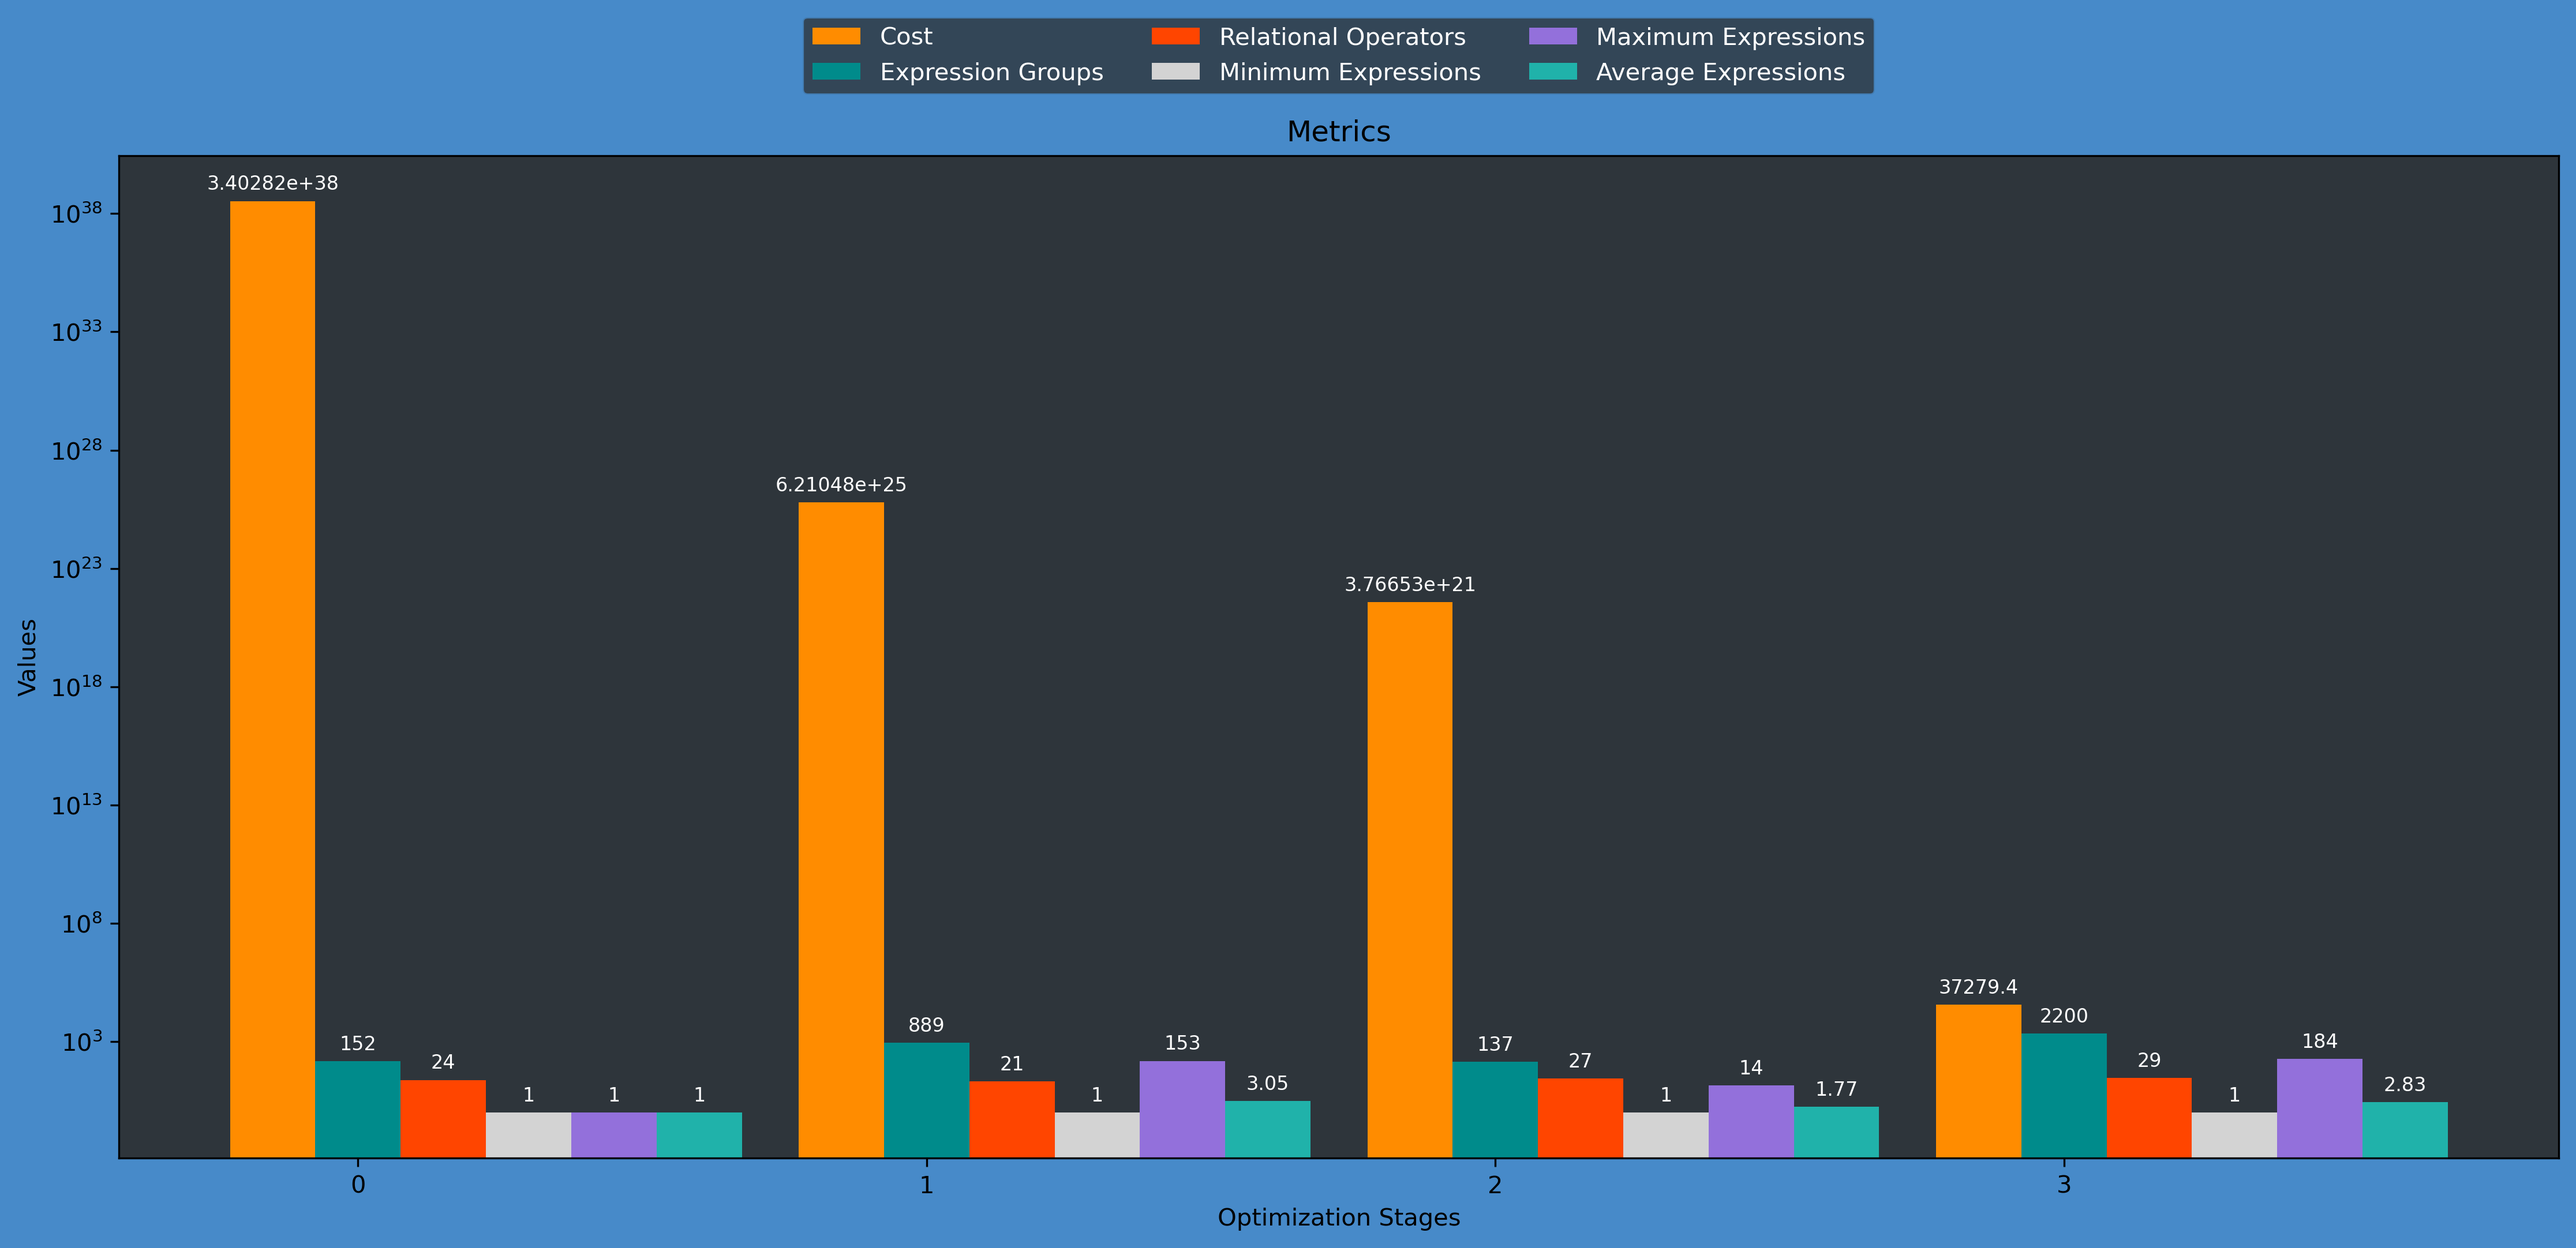
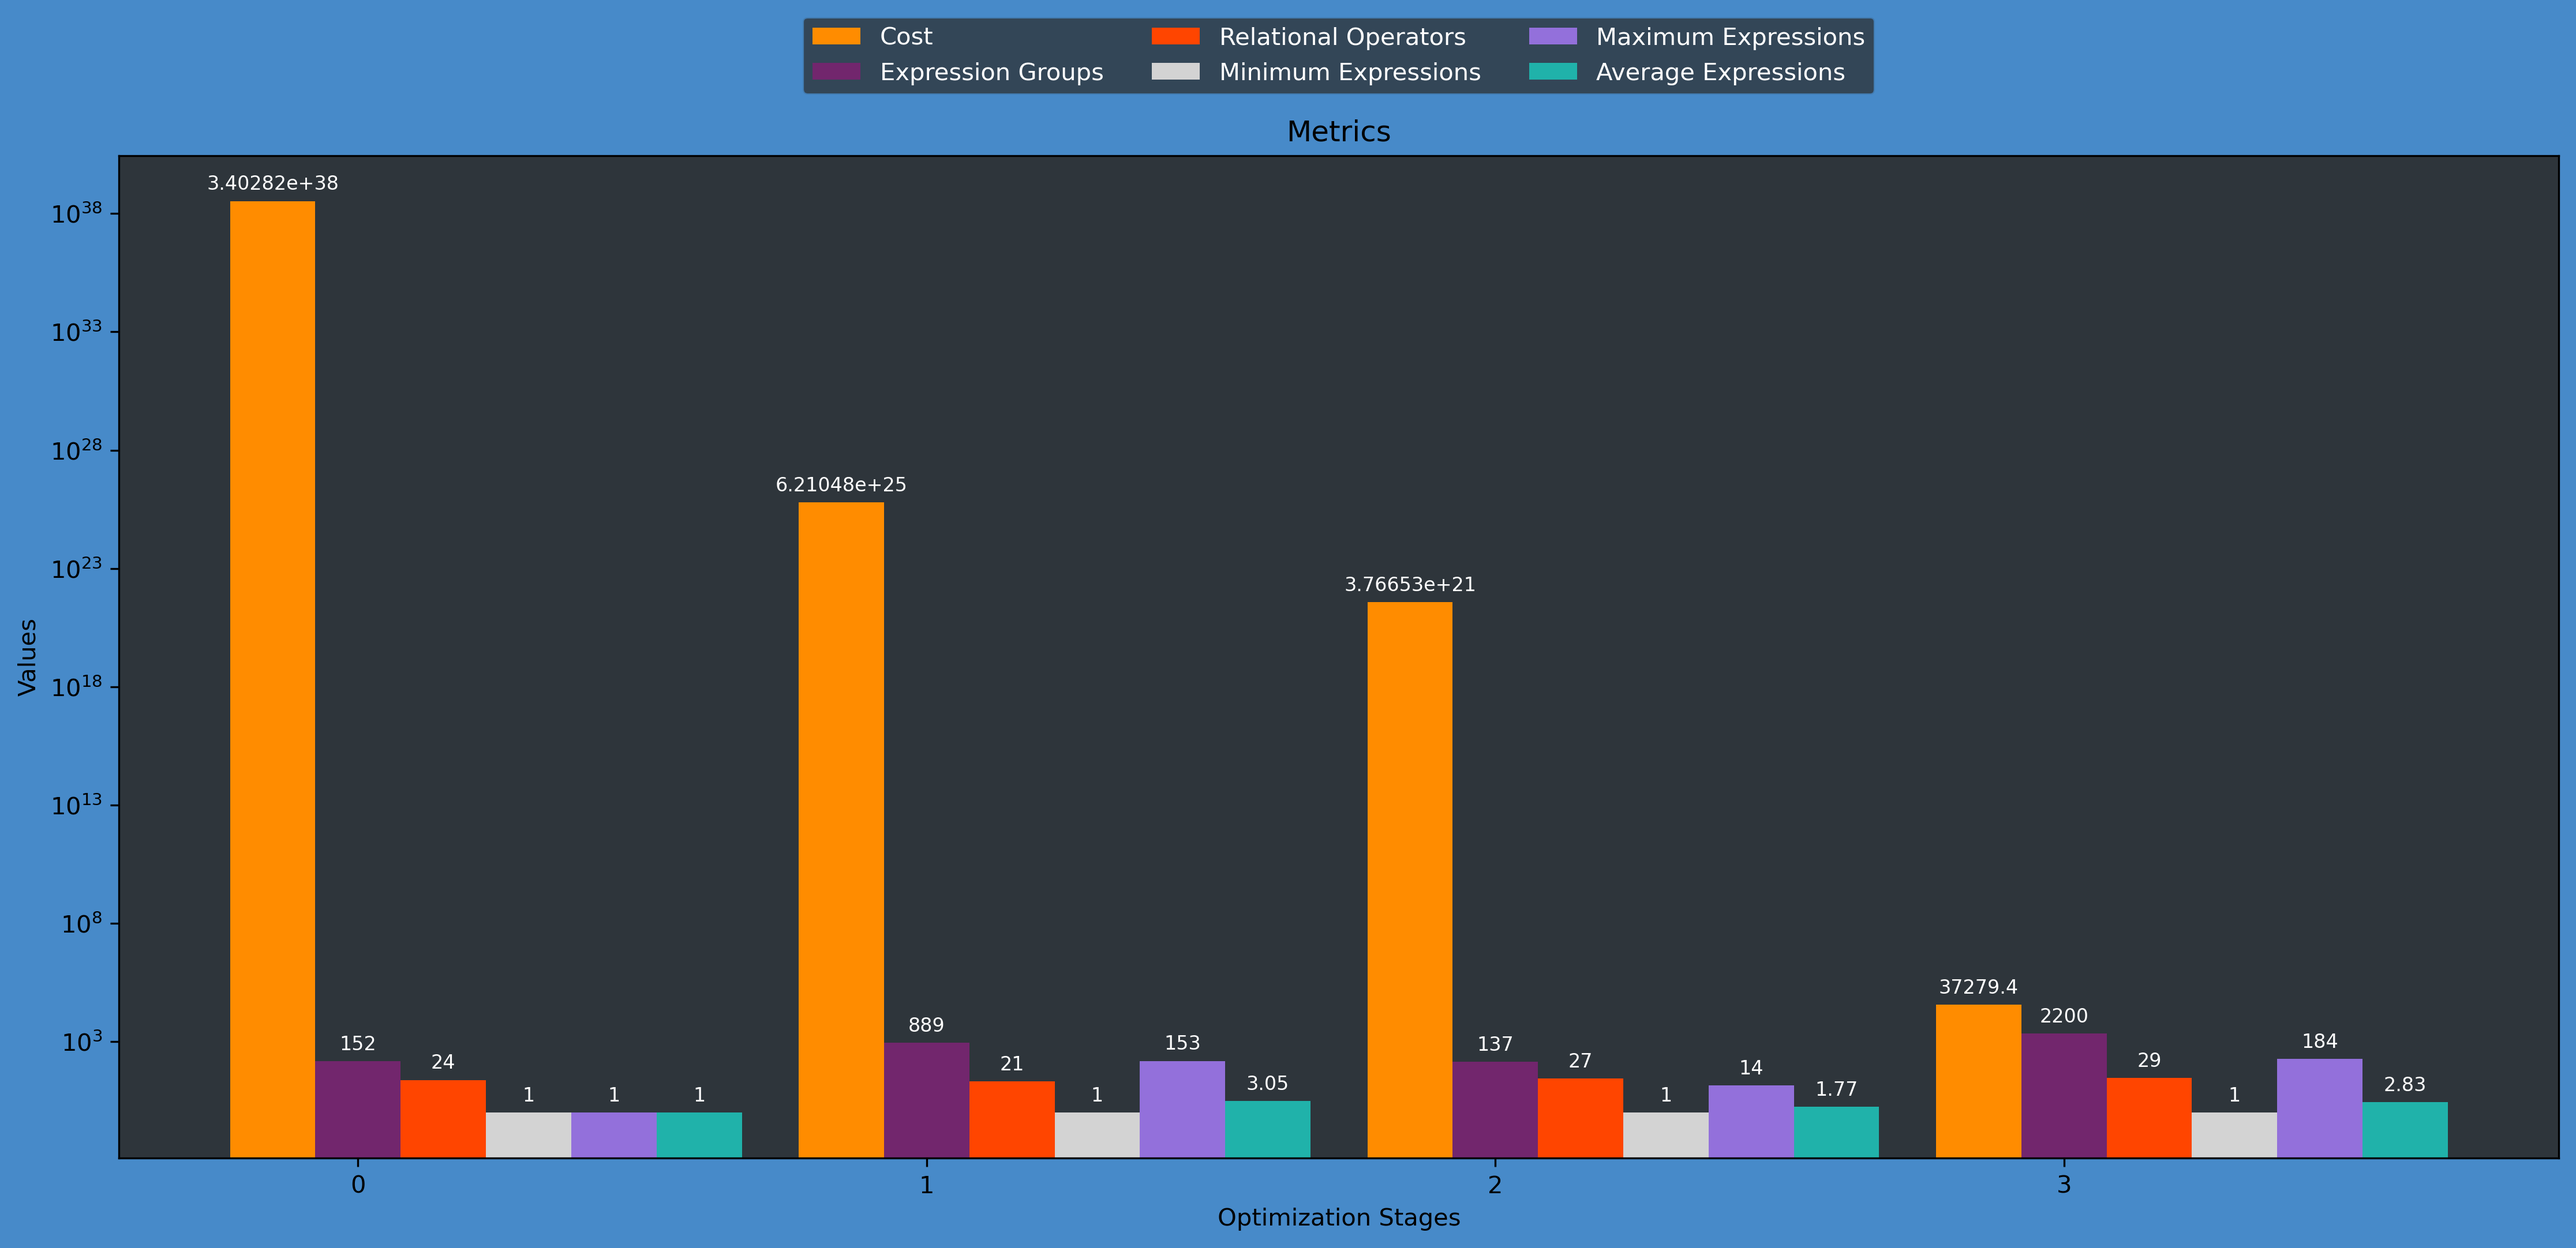
Script now functional; Added histograms for nodes; Changed color on regular histograms

diff --git a/src/planner/script/classes_histogram.py b/src/planner/script/classes_histogram.py
@@ -83,9 +83,12 @@ def create_histogram(query_folder, stage):
     # plt.show() -> Para já so quero guardar a imagem
 
     # Create scatter plot
-    fig, ax = plt.subplots(figsize=(15, 8), layout='constrained')
+    fig, ax = plt.subplots(figsize=(20, 10), layout='constrained')
     fig.patch.set_facecolor('#478ac9')
     ax.set_facecolor('#2e353b')
+
+    # Set logarithmic scale for better distribution visibility
+    ax.set_yscale('log')
 
     # Create scatter plot with connected lines
     ax.plot(class_ids, node_counts, 
@@ -96,25 +99,41 @@ def create_histogram(query_folder, stage):
     ax.scatter(class_ids, node_counts,
               color='white',
               alpha=0.7,
-              s=50)  # size of points
+              s=100)  # Increased point size
 
-    # Improve x-axis readability
+    # Improve x-axis readability for many classes
     if len(class_ids) > 50:
-        plt.xticks(rotation=45)
-        # Show fewer x-axis labels when there are many points
-        ax.xaxis.set_major_locator(plt.MaxNLocator(20))
+        step = len(class_ids) // 20  # Show around 20 labels
+        plt.xticks(class_ids[::step], rotation=45)
 
     # Add grid for better readability
-    ax.grid(True, color='white', alpha=0.1)
+    ax.grid(True, color='white', alpha=0.2, which='both')
 
     # Configure plot
-    ax.set_xlabel('Class ID', color='white')
-    ax.set_ylabel('Number of Nodes', color='white')
+    ax.set_xlabel('Class ID', color='white', fontsize=14)
+    ax.set_ylabel('Number of Nodes (log scale)', color='white', fontsize=14)
     ax.set_title(f'Distribution of Nodes per Class\nQuery {query_folder}, Stage {stage}',
-                 color='white', pad=20)
-    ax.tick_params(colors='white')
+                 color='white', pad=20, fontsize=16)
+    ax.tick_params(colors='white', labelsize=12)
+    
     for spine in ax.spines.values():
         spine.set_color('white')
+        spine.set_linewidth(2)
+
+    # Add statistics box with more details
+    stats_text = (f'Total Classes: {len(class_ids):,}\n'
+                 f'Min Nodes: {min(node_counts):,}\n'
+                 f'Max Nodes: {max(node_counts):,}\n'
+                 f'Median Nodes: {np.median(node_counts):,.0f}\n'
+                 f'Avg Nodes: {np.mean(node_counts):.2f}')
+    
+    plt.text(0.95, 0.95, stats_text,
+             transform=ax.transAxes,
+             verticalalignment='top',
+             horizontalalignment='right',
+             bbox=dict(facecolor='#2e353b', edgecolor='#478ac9'),
+             color='white',
+             fontsize=12)
 
     # Save plot
     query_output_dir = os.path.join(output_dir, query_folder)
@@ -130,6 +149,8 @@ def create_histogram(query_folder, stage):
                 dpi=300)
     plt.close()
     print(f"✅ Plot saved as: {output_path}")
+
+    
 
 
 ## MAIN ##

diff --git a/src/planner/script/graphics.py b/src/planner/script/graphics.py
@@ -62,7 +62,7 @@ def create_graph(file_path):
     ax.set_facecolor('#2e353b')  # Subplot background color
 
     # Create bars for each metric
-    colors = ['#FF8C00', '#008B8B', '#FF4500', '#D3D3D3', '#9370DB', '#20B2AA']
+    colors = ['#FF8C00', '#72266D', '#FF4500', '#D3D3D3', '#9370DB', '#20B2AA']
     for (attribute, measurement), color in zip(metrics.items(), colors):
         offset = width * multiplier
         rects = ax.bar(x + offset, measurement, width, label=attribute, color=color)

diff --git a/src/planner/script/classes_data_extractor.py b/src/planner/script/classes_data_extractor.py
@@ -6,6 +6,7 @@ import sys
 
 def extract_all_stages_classes(query_folder):
     output_dir = "src/planner/outputs/filtered_class_data/query_" + query_folder
+    
     os.makedirs(output_dir, exist_ok=True)
 
     for stage in range(4):  # 0 to 3
